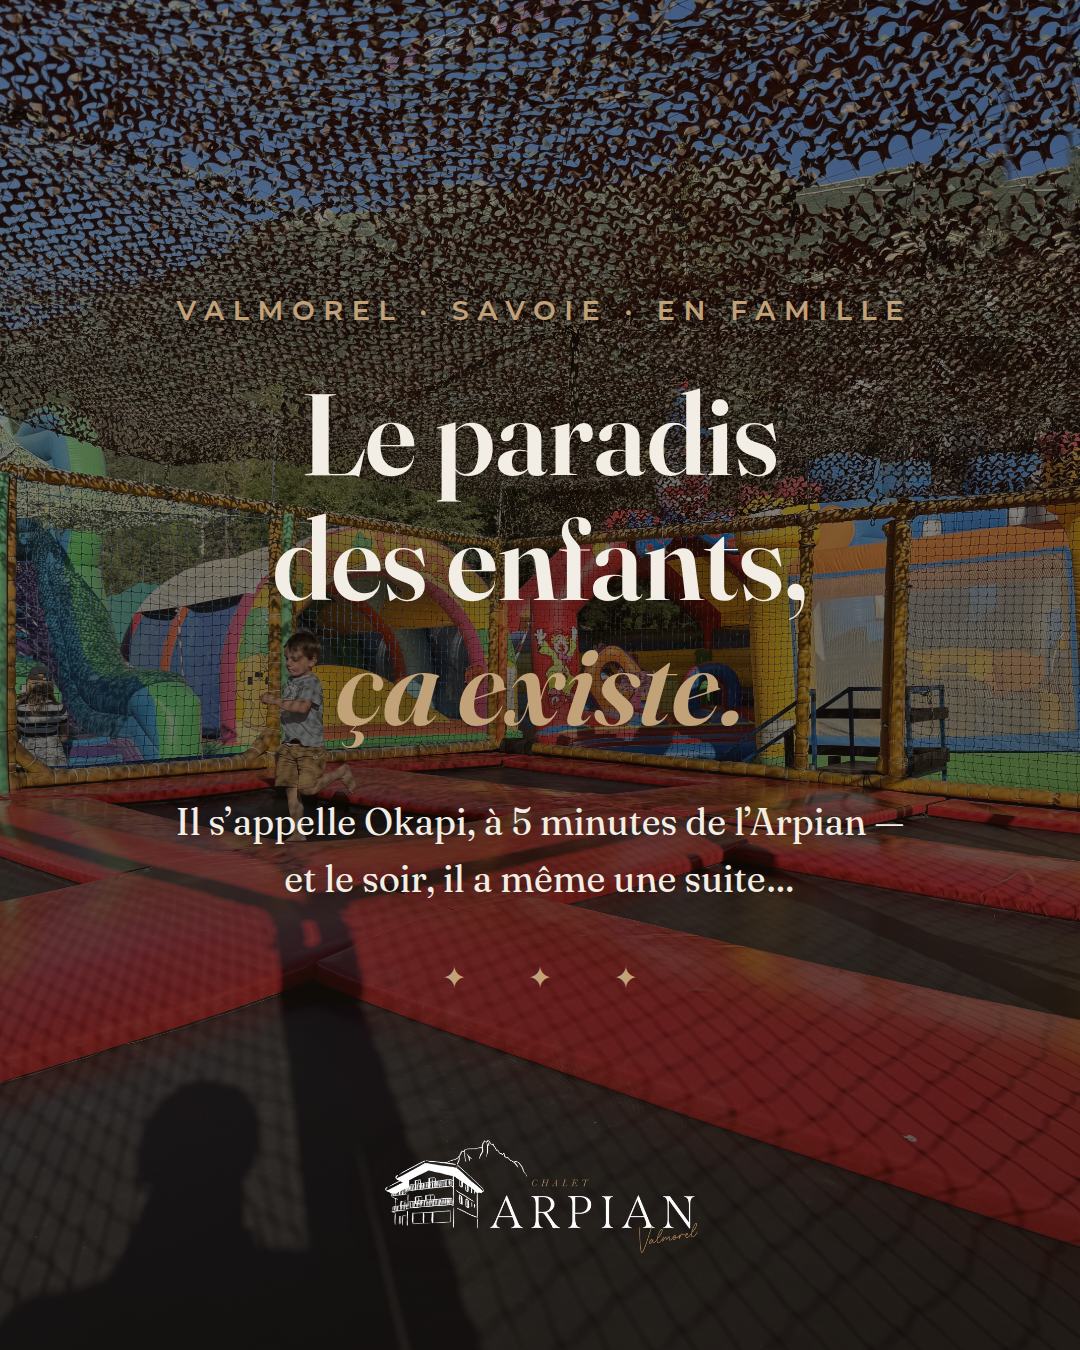
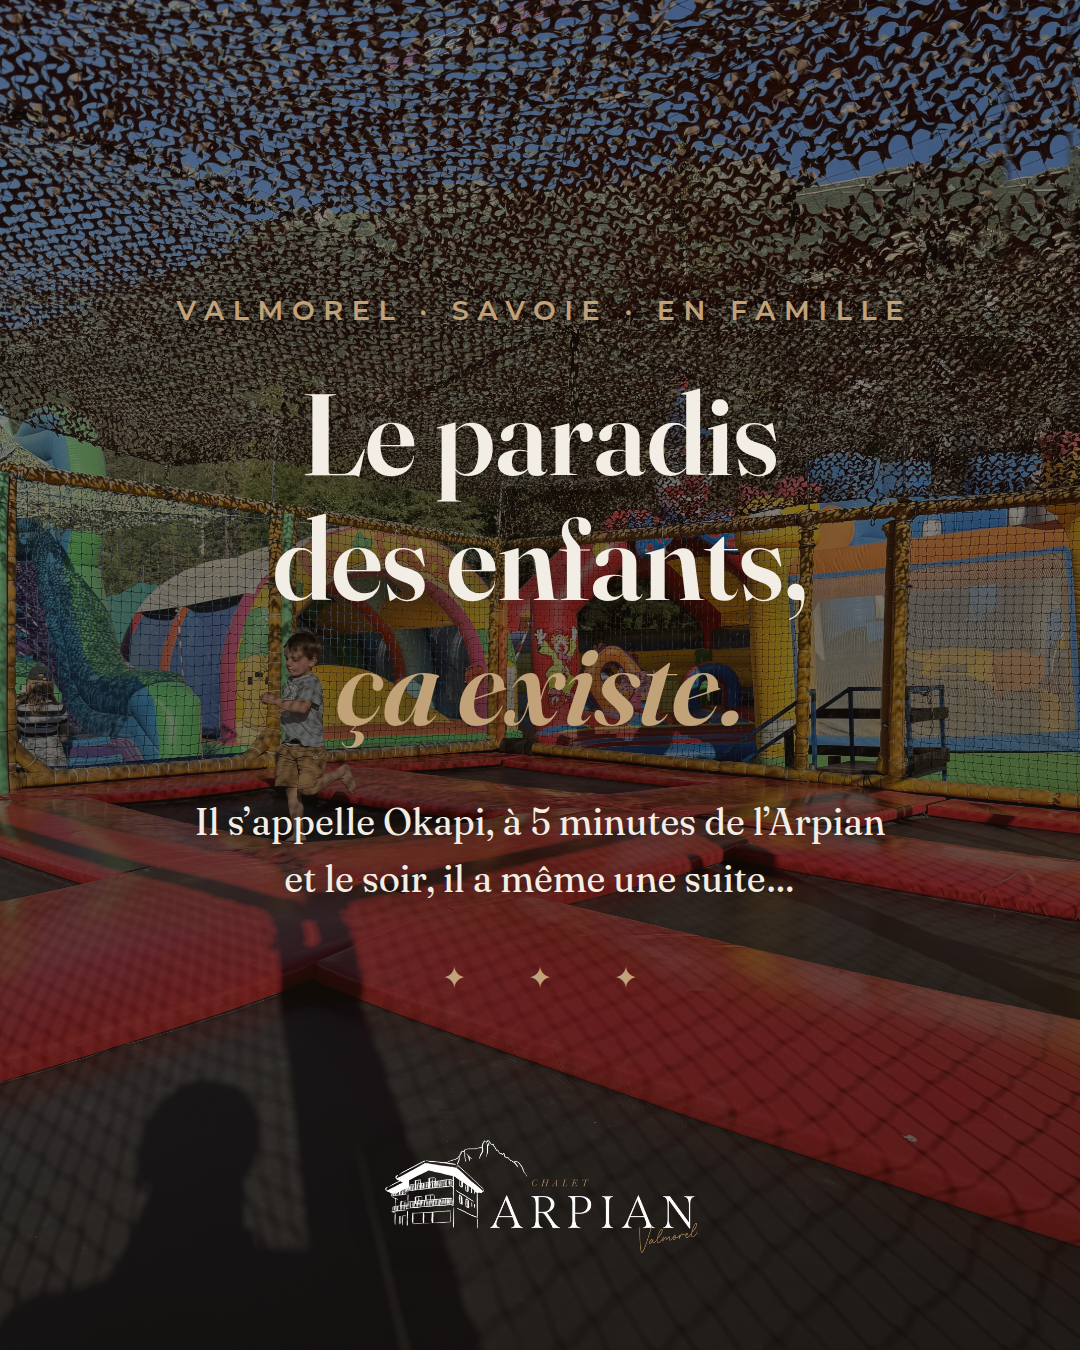
Remove dash after Arpian in Okapi cover subtitle
Claude-Session: https://claude.ai/code/session_01RLUktmYZh4ZTRRqprvaJEy

Changed region(s): [[0.1528, 0.5911, 0.825, 0.6222]]

diff --git a/projects/arpian/instagram-carousel/slide-00-intro-okapi.html b/projects/arpian/instagram-carousel/slide-00-intro-okapi.html
@@ -83,7 +83,7 @@
     <div class="content">
       <div class="kicker">Valmorel &middot; Savoie &middot; En famille</div>
       <h1>Le paradis<br>des enfants,<br><span class="accent">&ccedil;a existe.</span></h1>
-      <div class="sub">Il s&rsquo;appelle Okapi, &agrave; 5 minutes de l&rsquo;Arpian &mdash;<br>et le soir, il a m&ecirc;me une suite&hellip;</div>
+      <div class="sub">Il s&rsquo;appelle Okapi, &agrave; 5 minutes de l&rsquo;Arpian<br>et le soir, il a m&ecirc;me une suite&hellip;</div>
       <div class="stars">&#10022;&nbsp;&#10022;&nbsp;&#10022;</div>
     </div>
 
